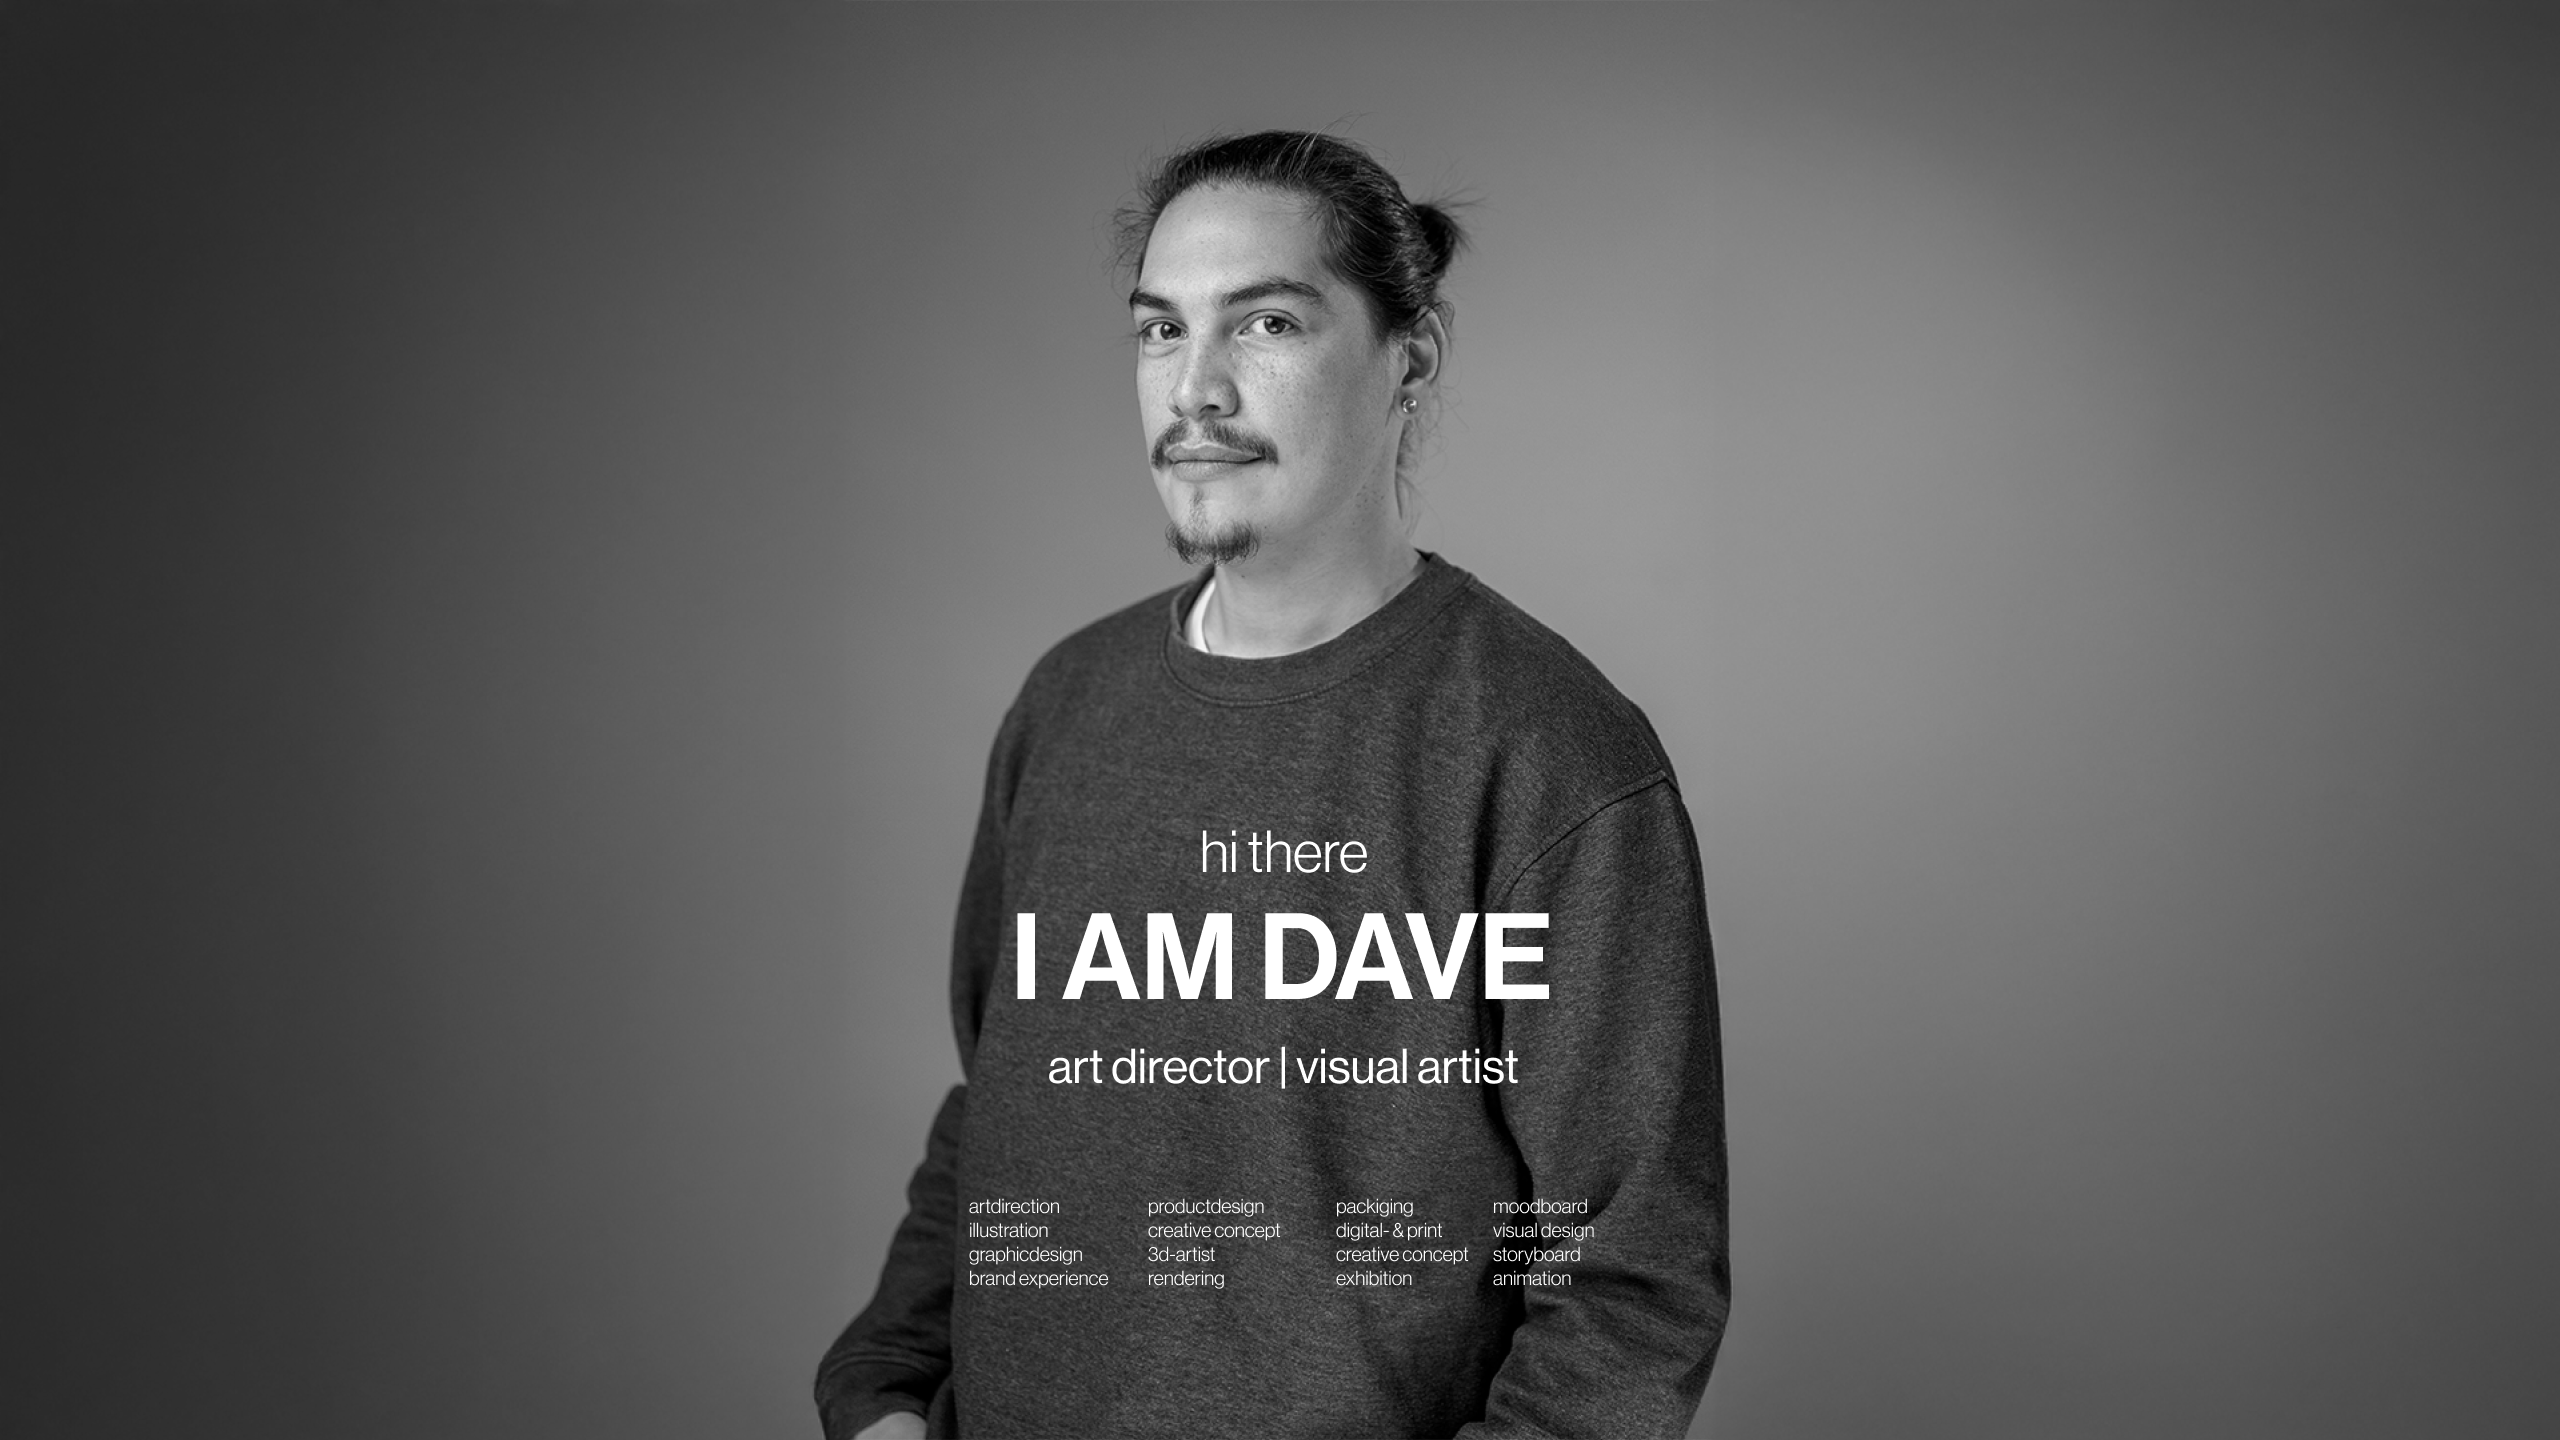
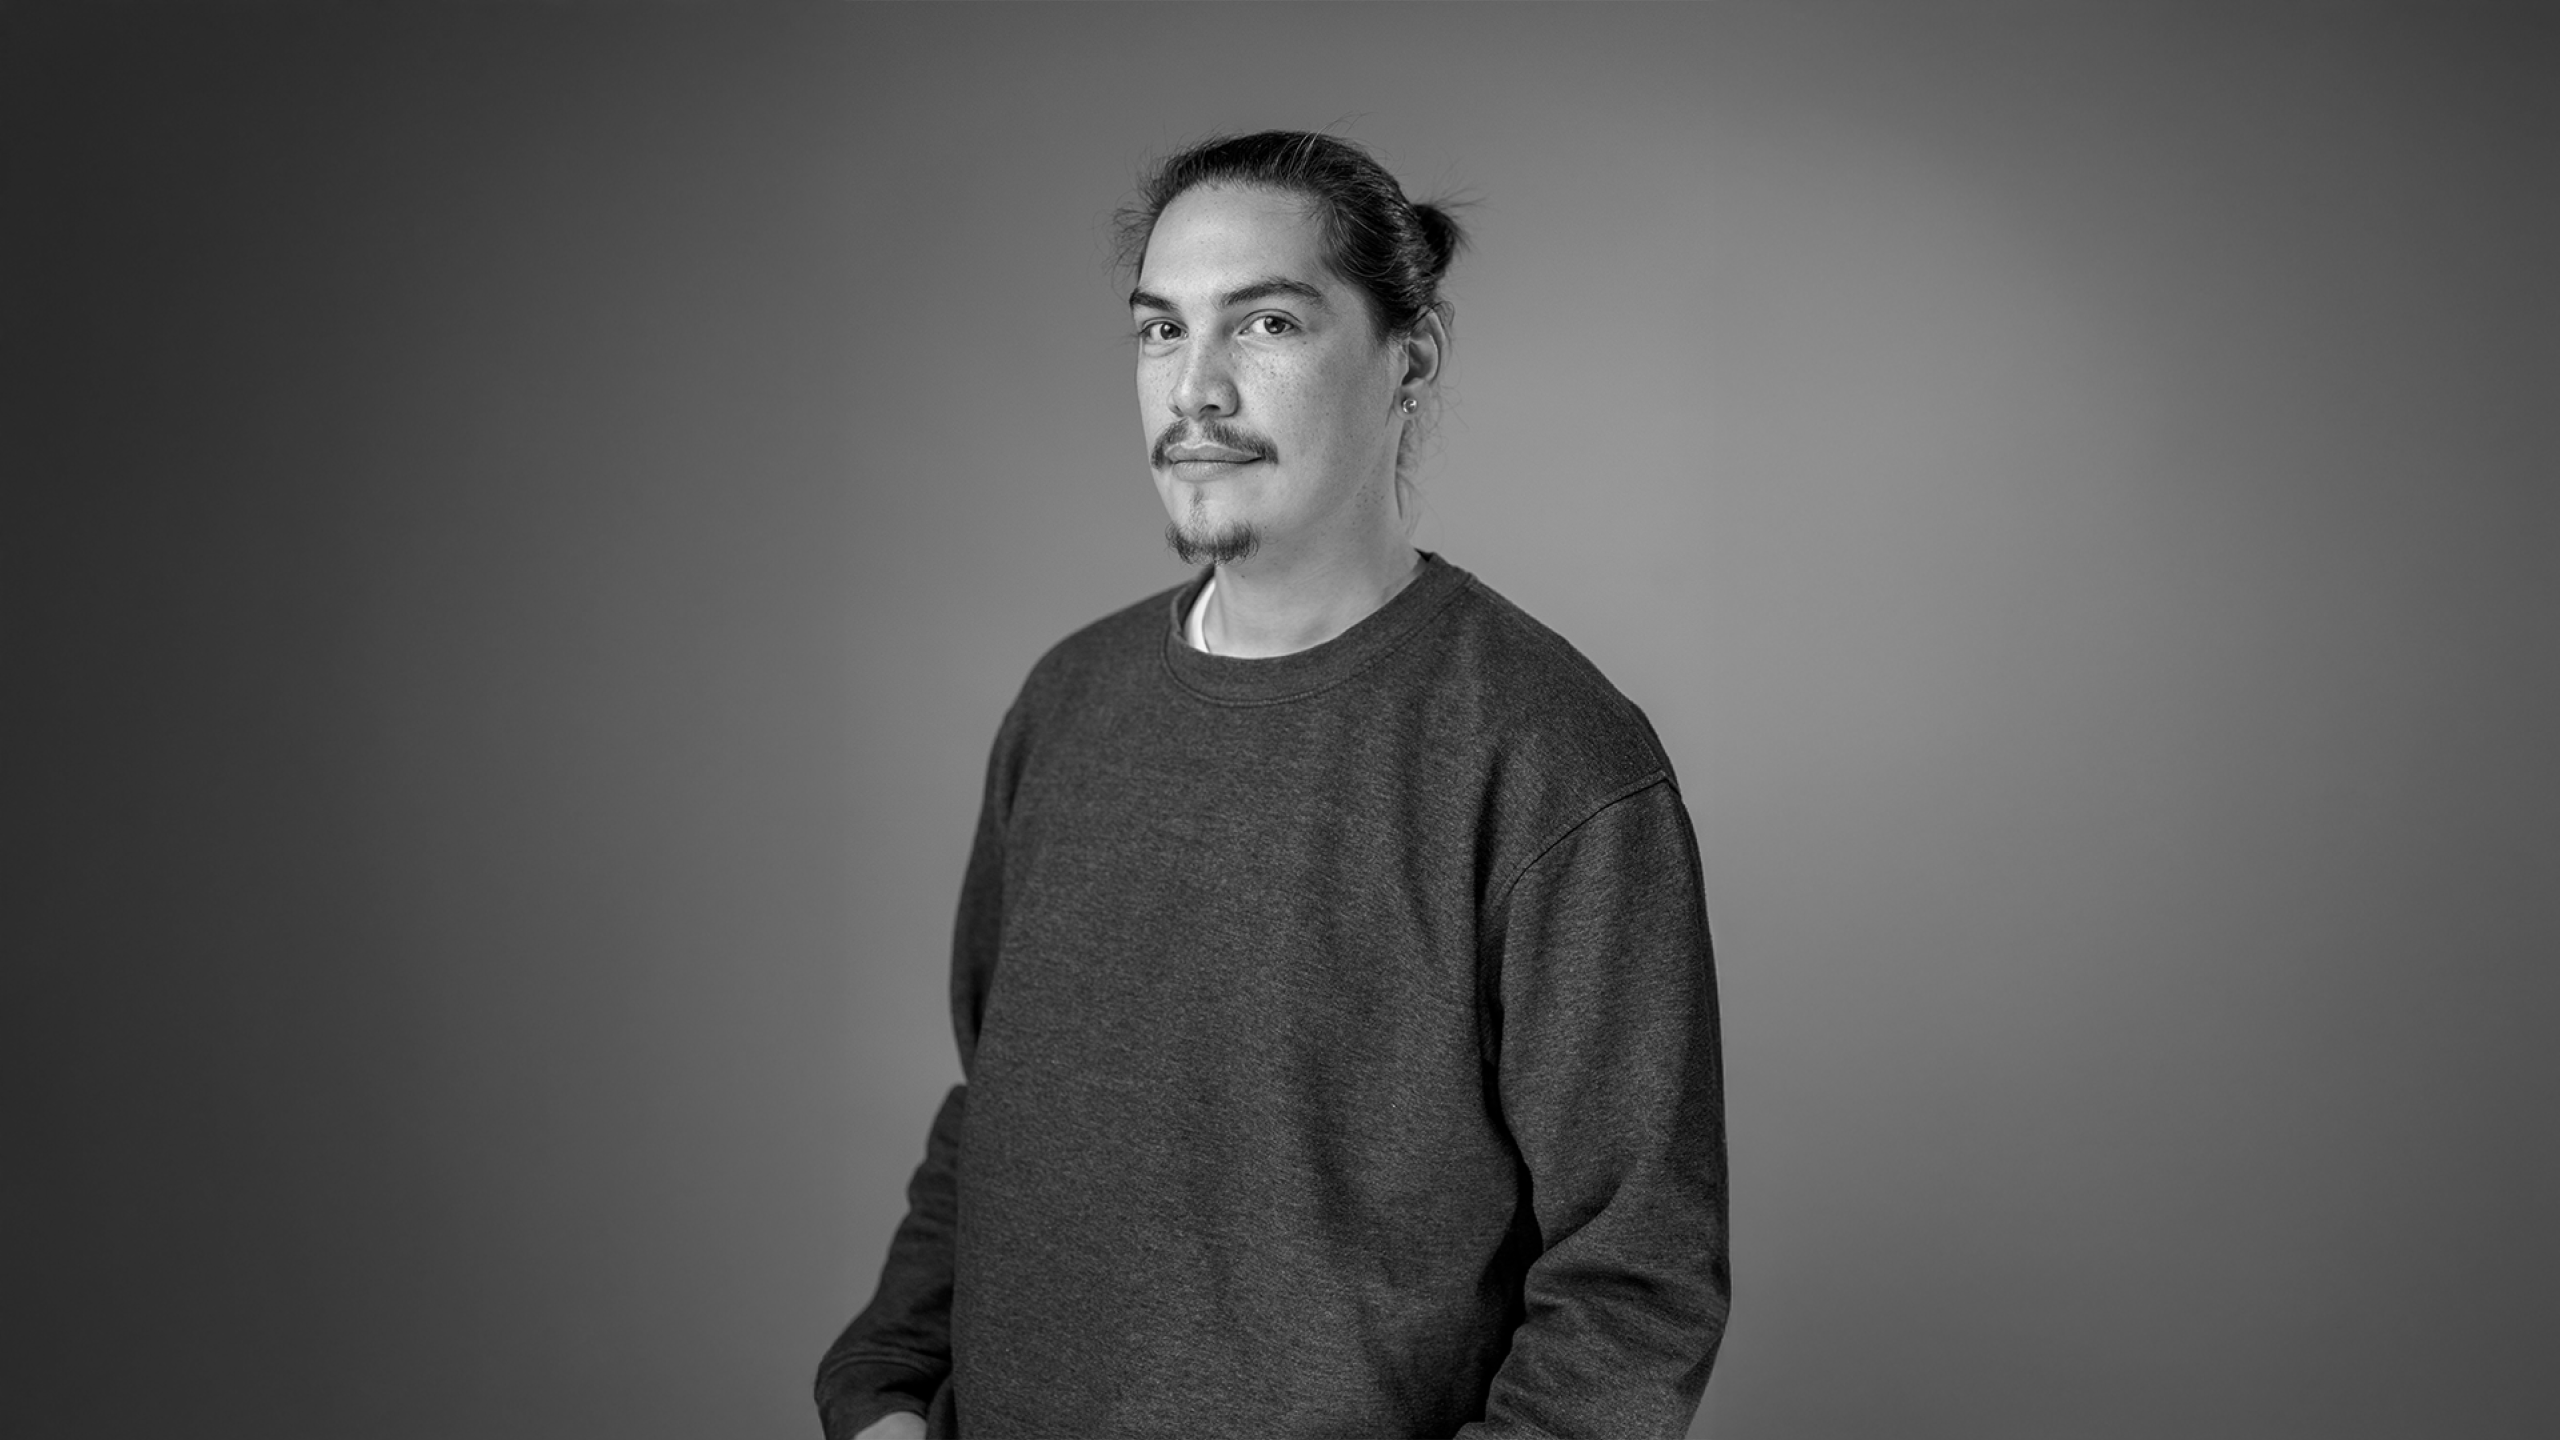
update

diff --git a/index.html b/index.html
@@ -18,6 +18,18 @@
 <style>
   .parasite-pill .pavatar{ background: url('img/Profilbild02.png') center/cover, var(--red); }
   .about-img{ background: url('img/Dave3.png') center/cover; }
+
+  /* Client marquee: grayscale by default, full color on hover */
+  .clients-marquee .marquee-track img{
+    filter: grayscale(100%) contrast(0.9);
+    opacity: 0.65;
+    transition: filter .35s ease, opacity .35s ease, transform .35s ease;
+  }
+  .clients-marquee .marquee-track img:hover{
+    filter: grayscale(0%) contrast(1);
+    opacity: 1;
+    transform: scale(1.05);
+  }
 </style>
 </head>
 <body>
@@ -73,13 +85,10 @@
     <div class="hero-content">
       <div class="hero-eyebrow">
         <span class="dot"></span>
-        <span>Available Q2 2026 — Cologne / Remote</span>
+        <span>Art Direction, Visual Design <span class="accent">&amp;</span> Illustration</span>
       </div>
-      <h1>
-        Art Direction, Visual Design <span class="accent">&amp;</span> Illustration
-        for brands that want to be remembered.
-      </h1>
-      <div class="hero-sub">Dave Rindo Rindo · 07+ Years </div>
+        <h1>TAKE YOUR BRAND TO THE NEXT LEVEL</h1>
+      <div class="hero-sub">Dave Rindo Rindo · 07+ Years · Cologne · Remote</div>
     </div>
 
     <div class="slider-ui">
@@ -104,9 +113,12 @@
 
     <div class="about-content reveal">
       <p>
-        I'm <strong>Dave Rindo Rindo</strong> — Art Director with 6+ years across design, illustration
+        I'm <strong>Dave Rindo Rindo</strong> — Art Director with 7+ years across design, illustration
         and visual brand communication. From gaming and automotive to lifestyle, I craft concepts
         with a strong sense for brand and audience.
+      </p>
+      <p>
+      After completing my studies in Product Design, I gained over six years of experience in art direction, graphic design, and project management for both national and international clients. My professional journey began at Oliver Schrott Kommunikation (OSK), where I worked, among others, for Daimler/Mercedes. There, I designed trade show and event architectures, illustrated storyboards, and produced high-quality renderings.
       </p>
       <p>
         Before my sabbatical in 2024, I worked at <strong>Build a Rocket</strong> on campaigns for
@@ -121,9 +133,9 @@
       </div>
 
       <div class="about-stats">
-        <div><div class="n">06+</div><div class="l">Years</div></div>
-        <div><div class="n">40+</div><div class="l">Projects</div></div>
-        <div><div class="n">22</div><div class="l">Brands</div></div>
+        <div><div class="n">07+</div><div class="l">Years</div></div>
+        <div><div class="n">100+</div><div class="l">Projects</div></div>
+        <div><div class="n">20+</div><div class="l">Brands</div></div>
       </div>
     </div>
   </section>
@@ -239,11 +251,6 @@
     </div>
 
     <div class="socials">
-      <a href="https://www.instagram.com/daveodnirodnir/" target="_blank" rel="noopener">
-        <span class="ico"><svg><use href="#i-instagram"/></svg></span>
-        <span>Instagram</span>
-        <span class="ico"><svg><use href="#i-arrow-up-right"/></svg></span>
-      </a>
       <a href="https://www.linkedin.com/in/dave-rindorindo-25547a145/" target="_blank" rel="noopener">
         <span class="ico"><svg><use href="#i-linkedin"/></svg></span>
         <span>LinkedIn</span>
@@ -275,10 +282,12 @@
 <script>
   window.HERO_IMAGES = [
     'img/Titelfolie-mittel.png',
-    'img/A-Class_Teaser (1).jpg',
-    'img/gallery-Porsche3-1-750x417.jpg',
+    'img/18C0280_317.jpg',
+    'img/IMG_8507.JPG',
+    'img/Puma-porsche-vexx3.png',
     'img/Portfolio_08.png',
     'img/Portfolio_01.png',
+    'img/Brausergames.png',
     'img/LG-UltraGear-LoL-edition-27GR95QL.jpg',
     'img/Portfolio_17.png',
     'img/Kalt_Warm.jpg'

diff --git a/projects/parasite.html b/projects/parasite.html
@@ -847,14 +847,12 @@
       <span>MANGA</span>
     </div>
 
-    <div class="zz-divider"></div>
-
     <!-- decorative spacing -->
 
     <p class="zz-info-text">
       <span class="lead">A self-published independent manga series</span>
       by Dave Rindo Rindo. Drawn between client work and louder coffees —
-      a quiet horror you can hold in your hands.
+      a quiet place you can hold in your hands.
     </p>
 
     <div class="zz-info-meta">
@@ -907,8 +905,6 @@
   <div class="zz-paper-head">
     <h2>PARASITE<br><span class="strike">MANGA</span></h2>
     <div class="zz-paper-badge">
-      <span class="rating">★ ★ ★ ★ ★</span>
-      <span class="jp">VOL. 01 · 2026</span>
     </div>
   </div>
 
@@ -928,12 +924,13 @@
       <p>
         Each piece is hand-drawn, mostly in black ink with the occasional bleed of red.
         The work lives somewhere between manga, editorial illustration and personal
-        diary — a quiet horror you can hold in your hands.
+        diary — a quiet place you can hold in your hands.
       </p>
       <div class="tags">
         <span>Manga</span>
         <span>Illustration</span>
         <span>Story</span>
+        <span>Storyboard</span>
       </div>
     </div>
   </div>
